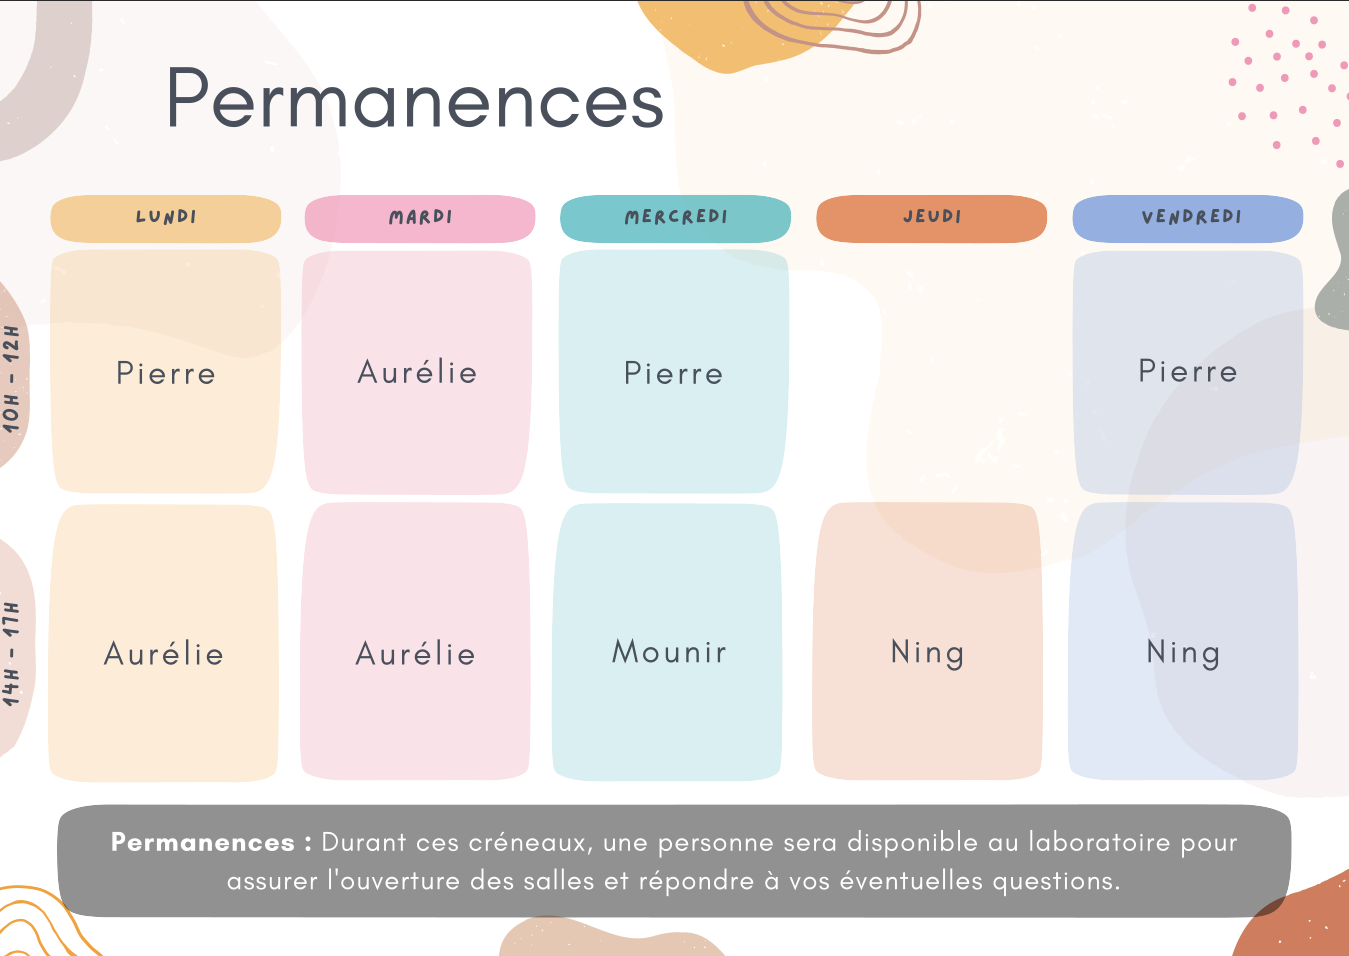
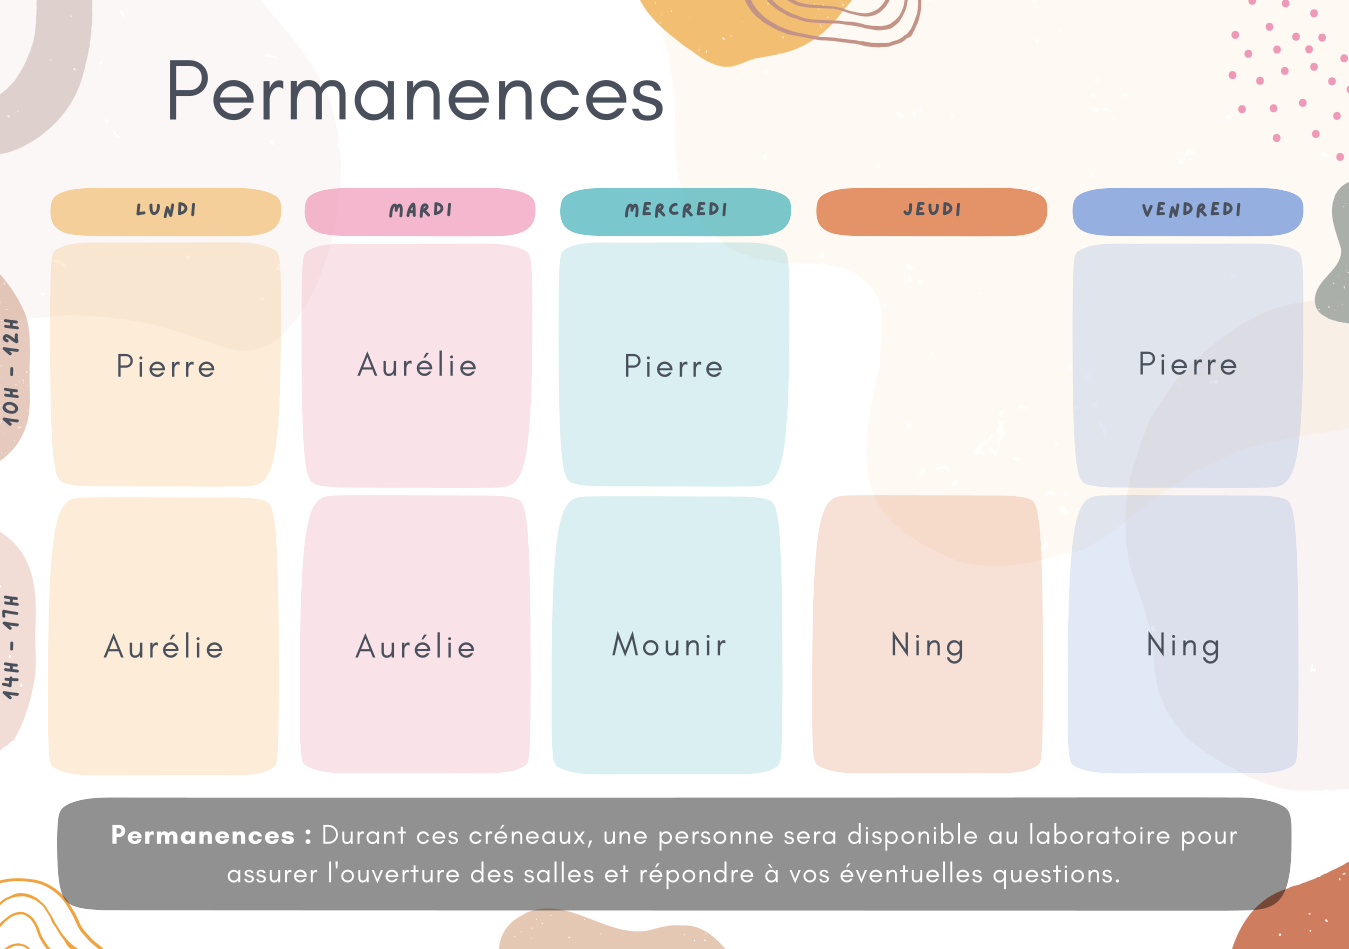
ajout permanences maj

diff --git a/edt.md b/edt.md
@@ -5,7 +5,7 @@ title: "Emplois de temps"
 
 
 <div class="row p-5">
-	<div class="col-12">
+	<div class="col-10">
 
 
 <h1>Emplois de temps : Master Traitement Automatique des Langues</h1>
@@ -26,9 +26,11 @@ title: "Emplois de temps"
 
 <h1>Permanences du département TAL</h1>
 
+<p>
 La salle Master TAL et les locaux du département TAL (entrée E, au-dessus du Grand Salon) sont disponibles pour les étudiants pendant toute la semaine. La salle Master TAL est accessible en dehors des cours pour le travail des étudiants.
+</p>
 
-<img src="/assets/fichiers/permanences.png" alt="Permanences 2025-2026" class="w-75">
+<img src="/assets/fichiers/permanences.png" alt="Permanences 2025-2026" class="w-50">
 
 
 </div>
